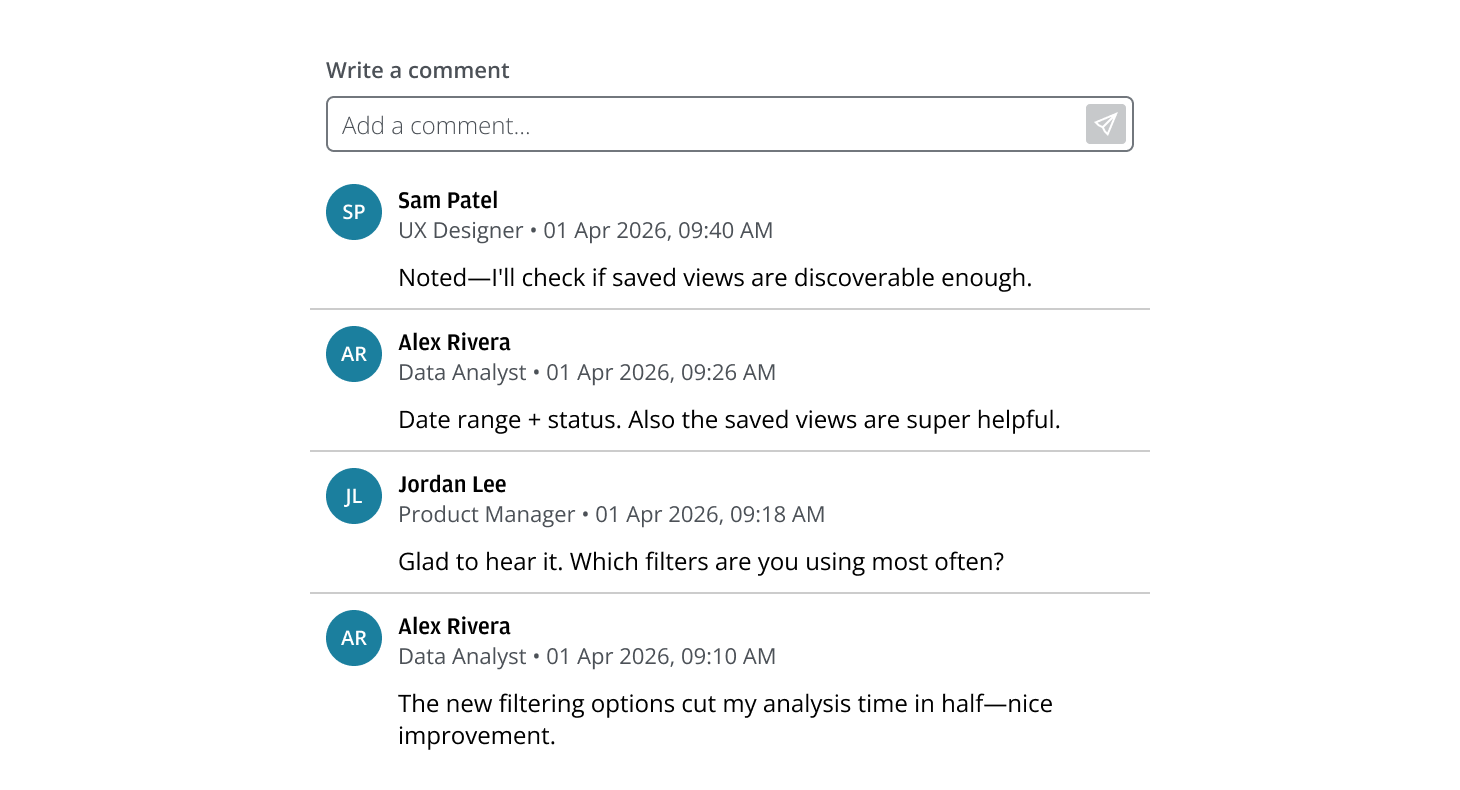
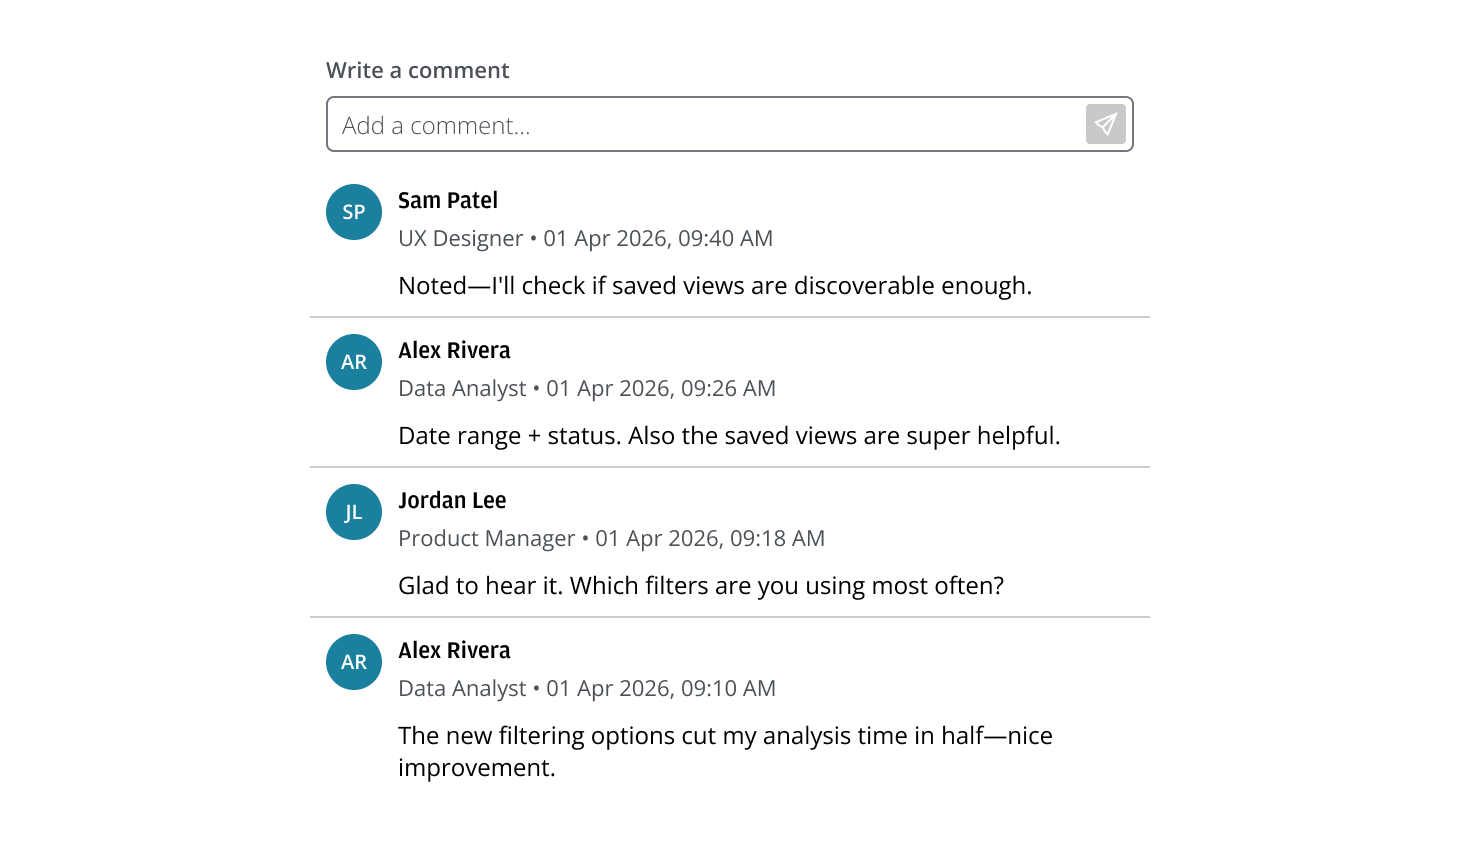
PEPPER-2297 PR comments

Changed region(s): [[0.2158, 0.2127, 0.7705, 0.9418], [0.2158, 0.0608, 0.7705, 0.1823]]

diff --git a/packages/core/stories/patterns/comments/comments.stories.tsx b/packages/core/stories/patterns/comments/comments.stories.tsx
@@ -11,9 +11,10 @@ import {
   Label,
   MultilineInput,
   StackLayout,
+  StatusIndicator,
   Text,
 } from "@salt-ds/core";
-import { CloseIcon, InfoIcon, RefreshIcon, SendIcon } from "@salt-ds/icons";
+import { CloseIcon, RefreshIcon, SendIcon } from "@salt-ds/icons";
 import type { Meta } from "@storybook/react-vite";
 import { useState } from "react";
 
@@ -21,19 +22,31 @@ export default {
   title: "Patterns/Comments",
 } as Meta;
 
+const formatDate = (timestamp: number) =>
+  new Date(timestamp)
+    .toLocaleString("en-GB", {
+      day: "2-digit",
+      month: "short",
+      year: "numeric",
+      hour: "2-digit",
+      minute: "2-digit",
+      hour12: true,
+    })
+    .replace(",", " •");
+
 export const Default = () => {
   const [inputValue, setInputValue] = useState("");
   const [comments, setComments] = useState([
     {
       name: "Alex Rivera",
       role: "Data Analyst",
-      date: "01 Apr 2026, 09:26 AM",
+      date: 1775035560000,
       text: "Date range + status. Also the saved views are super helpful.",
     },
     {
       name: "Jordan Lee",
       role: "Product Manager",
-      date: "01 Apr 2026, 09:20 AM",
+      date: 1775035200000,
       text: "Has anyone tried filtering by region and date?",
     },
   ]);
@@ -44,16 +57,7 @@ export const Default = () => {
       {
         name: "Sam Patel",
         role: "UX Designer",
-        date: new Date()
-          .toLocaleString("en-GB", {
-            day: "2-digit",
-            month: "short",
-            year: "numeric",
-            hour: "2-digit",
-            minute: "2-digit",
-            hour12: true,
-          })
-          .replace(",", " •"),
+        date: Date.now(),
         text: inputValue,
       },
       ...comments,
@@ -63,34 +67,41 @@ export const Default = () => {
 
   return (
     <StackLayout gap={0} style={{ width: "420px" }}>
-      <div style={{ padding: "var(--salt-spacing-100)" }}>
+      <form
+        style={{ padding: "var(--salt-spacing-100)" }}
+        onSubmit={(e) => {
+          e.preventDefault();
+          handleSubmit();
+        }}
+      >
         <FormField>
           <FormFieldLabel>Write a comment</FormFieldLabel>
           <Input
             bordered
             placeholder="Add a comment..."
             endAdornment={
-              <Button onClick={handleSubmit} disabled={!inputValue.trim()}>
-                <SendIcon />
+              <Button
+                aria-label="Send comment"
+                type="submit"
+                disabled={!inputValue.trim()}
+              >
+                <SendIcon aria-hidden />
               </Button>
             }
             value={inputValue}
             onChange={(e) =>
               setInputValue((e.target as HTMLInputElement).value)
             }
-            onKeyDown={(e) => {
-              if (e.key === "Enter") handleSubmit();
-            }}
           />
         </FormField>
-      </div>
+      </form>
       <StackLayout gap={0} separators>
         {comments.map((c) => (
           <StackLayout padding={1} gap={1} key={`${c.name}-${c.date}`}>
             <StackLayout gap={0.5}>
               <Text styleAs="h4">{c.name}</Text>
               <Text styleAs="label" color="secondary">
-                {c.role} • {c.date}
+                {c.role} • {formatDate(c.date)}
               </Text>
             </StackLayout>
             <Text>{c.text}</Text>
@@ -106,16 +117,14 @@ export const WithAvatar = () => {
   const [comments, setComments] = useState([
     {
       name: "Alex Rivera",
-      initials: "AR",
       role: "Data Analyst",
-      date: "01 Apr 2026, 09:26 AM",
+      date: 1775035560000,
       text: "Date range + status. Also the saved views are super helpful.",
     },
     {
       name: "Jordan Lee",
-      initials: "JL",
       role: "Product Manager",
-      date: "01 Apr 2026, 09:20 AM",
+      date: 1775035200000,
       text: "Has anyone tried filtering by region and date?",
     },
   ]);
@@ -125,18 +134,8 @@ export const WithAvatar = () => {
     setComments([
       {
         name: "Sam Patel",
-        initials: "SP",
         role: "UX Designer",
-        date: new Date()
-          .toLocaleString("en-GB", {
-            day: "2-digit",
-            month: "short",
-            year: "numeric",
-            hour: "2-digit",
-            minute: "2-digit",
-            hour12: true,
-          })
-          .replace(",", " •"),
+        date: Date.now(),
         text: inputValue,
       },
       ...comments,
@@ -146,37 +145,44 @@ export const WithAvatar = () => {
 
   return (
     <StackLayout gap={0} style={{ width: "420px" }}>
-      <div style={{ padding: "var(--salt-spacing-100)" }}>
+      <form
+        style={{ padding: "var(--salt-spacing-100)" }}
+        onSubmit={(e) => {
+          e.preventDefault();
+          handleSubmit();
+        }}
+      >
         <FormField>
           <FormFieldLabel>Write a comment</FormFieldLabel>
           <Input
             bordered
             placeholder="Add a comment..."
             endAdornment={
-              <Button onClick={handleSubmit} disabled={!inputValue.trim()}>
-                <SendIcon />
+              <Button
+                aria-label="Send comment"
+                type="submit"
+                disabled={!inputValue.trim()}
+              >
+                <SendIcon aria-hidden />
               </Button>
             }
             value={inputValue}
             onChange={(e) =>
               setInputValue((e.target as HTMLInputElement).value)
             }
-            onKeyDown={(e) => {
-              if (e.key === "Enter") handleSubmit();
-            }}
           />
         </FormField>
-      </div>
+      </form>
       <StackLayout gap={0} separators>
         {comments.map((c) => (
           <StackLayout padding={1} gap={1} key={`${c.name}-${c.date}`}>
             <FlexLayout gap={1}>
-              <Avatar size={1} color="accent" name={c.initials} />
+              <Avatar size={1} color="accent" name={c.name} />
               <StackLayout gap={1}>
                 <StackLayout gap={0.5}>
                   <Text styleAs="h4">{c.name}</Text>
                   <Text styleAs="label" color="secondary">
-                    {c.role} • {c.date}
+                    {c.role} • {formatDate(c.date)}
                   </Text>
                 </StackLayout>
                 <Text>{c.text}</Text>
@@ -195,16 +201,14 @@ export const WithMultilineInput = () => {
   const [comments, setComments] = useState([
     {
       name: "Alex Rivera",
-      initials: "AR",
       role: "Data Analyst",
-      date: "01 Apr 2026, 09:26 AM",
+      date: 1775035560000,
       text: "Date range + status. Also the saved views are super helpful.",
     },
     {
       name: "Jordan Lee",
-      initials: "JL",
       role: "Product Manager",
-      date: "01 Apr 2026, 09:20 AM",
+      date: 1775035200000,
       text: "Has anyone tried filtering by region and date?",
     },
   ]);
@@ -214,18 +218,8 @@ export const WithMultilineInput = () => {
     setComments([
       {
         name: "Sam Patel",
-        initials: "SP",
         role: "UX Designer",
-        date: new Date()
-          .toLocaleString("en-GB", {
-            day: "2-digit",
-            month: "short",
-            year: "numeric",
-            hour: "2-digit",
-            minute: "2-digit",
-            hour12: true,
-          })
-          .replace(",", " •"),
+        date: Date.now(),
         text: inputValue,
       },
       ...comments,
@@ -235,7 +229,13 @@ export const WithMultilineInput = () => {
 
   return (
     <StackLayout gap={0} style={{ width: "420px" }}>
-      <div style={{ padding: "var(--salt-spacing-100)" }}>
+      <form
+        style={{ padding: "var(--salt-spacing-100)" }}
+        onSubmit={(e) => {
+          e.preventDefault();
+          handleSubmit();
+        }}
+      >
         <FormField>
           <FormFieldLabel>Write a comment</FormFieldLabel>
           <MultilineInput
@@ -244,8 +244,12 @@ export const WithMultilineInput = () => {
             endAdornment={
               <>
                 <Label>{`${inputValue.length}/${MAX_CHARS}`}</Label>
-                <Button onClick={handleSubmit} disabled={!inputValue.trim()}>
-                  <SendIcon />
+                <Button
+                  aria-label="Send comment"
+                  type="submit"
+                  disabled={!inputValue.trim()}
+                >
+                  <SendIcon aria-hidden />
                 </Button>
               </>
             }
@@ -253,22 +257,19 @@ export const WithMultilineInput = () => {
             onChange={(e) =>
               setInputValue((e.target as HTMLInputElement).value)
             }
-            onKeyDown={(e) => {
-              if (e.key === "Enter") handleSubmit();
-            }}
           />
         </FormField>
-      </div>
+      </form>
       <StackLayout gap={0} separators>
         {comments.map((c) => (
           <StackLayout padding={1} gap={1} key={`${c.name}-${c.date}`}>
             <FlexLayout gap={1}>
-              <Avatar size={1} color="accent" name={c.initials} />
+              <Avatar size={1} color="accent" name={c.name} />
               <StackLayout gap={1}>
                 <StackLayout gap={0.5}>
                   <Text styleAs="h4">{c.name}</Text>
                   <Text styleAs="label" color="secondary">
-                    {c.role} • {c.date}
+                    {c.role} • {formatDate(c.date)}
                   </Text>
                 </StackLayout>
                 <Text>{c.text}</Text>
@@ -291,21 +292,15 @@ export const WithEmptyState = () => {
             bordered
             placeholder="Add a comment..."
             endAdornment={
-              <Button disabled>
-                <SendIcon />
+              <Button aria-label="Send comment" disabled>
+                <SendIcon aria-hidden />
               </Button>
             }
           />
         </FormField>
       </div>
       <StackLayout gap={3} align="center">
-        <InfoIcon
-          style={{
-            color: "white",
-            backgroundColor: "var(--salt-status-info-foreground-decorative)",
-          }}
-          size={2}
-        />
+        <StatusIndicator status="info" size={2} />
         <FlexLayout direction="column" align="center" gap={0}>
           <Text>No comments yet.</Text>
           <Text>Be the first to comment.</Text>
@@ -319,16 +314,14 @@ export const WithSubmissionError = () => {
   const [comments, _setComments] = useState([
     {
       name: "Alex Rivera",
-      initials: "AR",
       role: "Data Analyst",
-      date: "01 Apr 2026, 09:26 AM",
+      date: 1775035560000,
       text: "Date range + status. Also the saved views are super helpful.",
     },
     {
       name: "Jordan Lee",
-      initials: "JL",
       role: "Product Manager",
-      date: "01 Apr 2026, 09:20 AM",
+      date: 1775035200000,
       text: "Has anyone tried filtering by region and date?",
     },
   ]);
@@ -342,8 +335,8 @@ export const WithSubmissionError = () => {
             bordered
             placeholder="Add a comment..."
             endAdornment={
-              <Button disabled>
-                <SendIcon />
+              <Button aria-label="Send comment" disabled>
+                <SendIcon aria-hidden />
               </Button>
             }
           />
@@ -366,11 +359,15 @@ export const WithSubmissionError = () => {
           </StackLayout>
         </BannerContent>
         <BannerActions>
-          <Button sentiment="neutral" appearance="transparent">
-            <RefreshIcon />
+          <Button
+            aria-label="Retry"
+            sentiment="neutral"
+            appearance="transparent"
+          >
+            <RefreshIcon aria-hidden />
           </Button>
-          <Button aria-label="close" appearance="transparent">
-            <CloseIcon />
+          <Button aria-label="Close" appearance="transparent">
+            <CloseIcon aria-hidden />
           </Button>
         </BannerActions>
       </Banner>
@@ -378,12 +375,12 @@ export const WithSubmissionError = () => {
         {comments.map((c) => (
           <StackLayout padding={1} gap={1} key={`${c.name}-${c.date}`}>
             <FlexLayout gap={1}>
-              <Avatar size={1} color="accent" name={c.initials} />
+              <Avatar size={1} color="accent" name={c.name} />
               <StackLayout gap={1}>
                 <StackLayout gap={0.5}>
                   <Text styleAs="h4">{c.name}</Text>
                   <Text styleAs="label" color="secondary">
-                    {c.role} • {c.date}
+                    {c.role} • {formatDate(c.date)}
                   </Text>
                 </StackLayout>
                 <Text>{c.text}</Text>